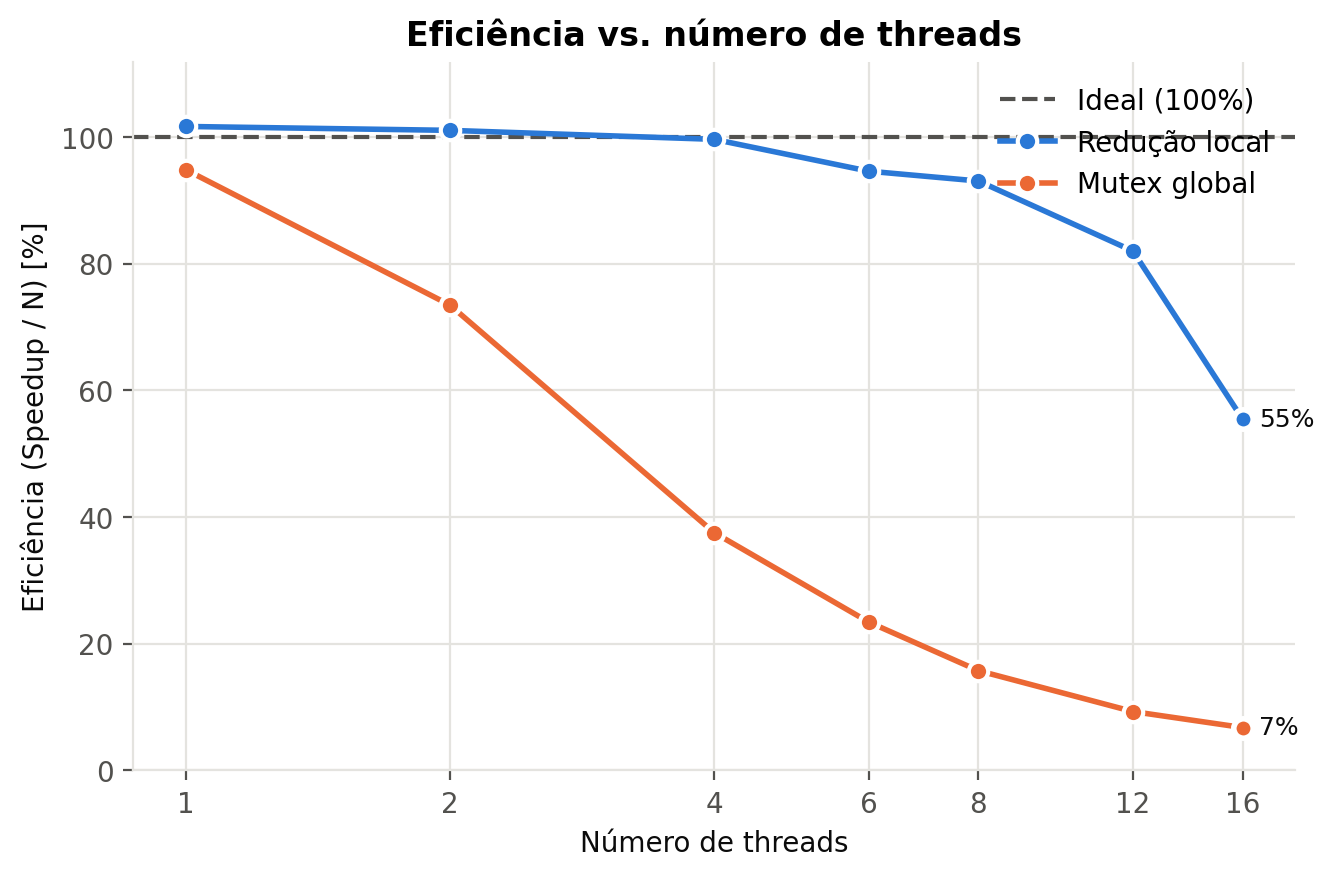
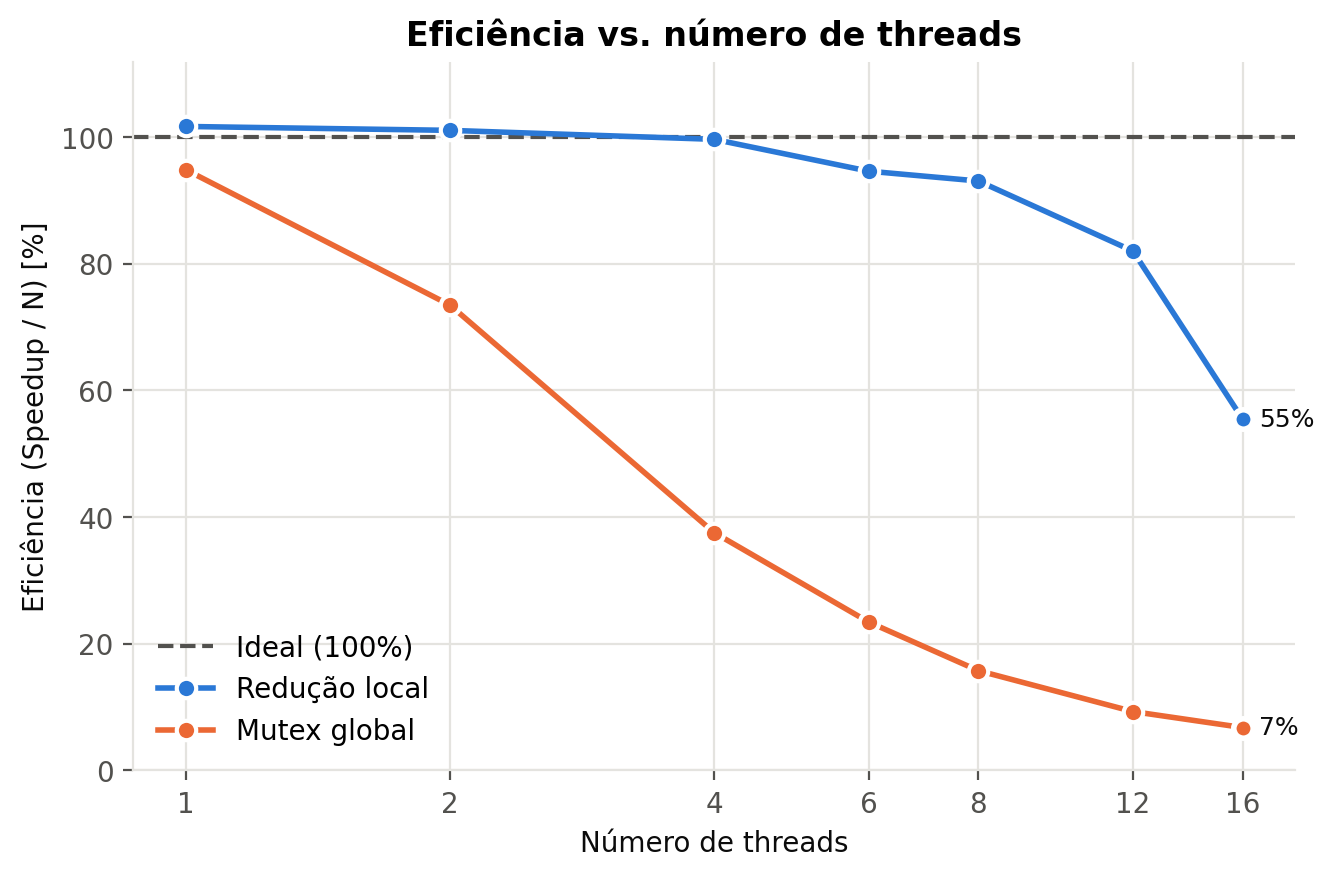
Corrige rótulos do gráfico de granularidade

diff --git a/plot_graphs.py b/plot_graphs.py
@@ -1,5 +1,6 @@
 import csv
 import os
+import sys
 import statistics as st
 from collections import defaultdict
  
@@ -8,8 +9,10 @@ matplotlib.use("Agg")
 import matplotlib.pyplot as plt
  
 RAIZ = os.path.dirname(os.path.abspath(__file__))
-DIR_RES = os.path.join(RAIZ, "resultados")
-DIR_GRAF = os.path.join(RAIZ, "graficos")
+# Uso: python3 plot_graphs.py [pasta_resultados] [pasta_graficos]
+#   ex: python3 plot_graphs.py resultados_10M graficos_10M
+DIR_RES = os.path.join(RAIZ, sys.argv[1] if len(sys.argv) > 1 else "resultados")
+DIR_GRAF = os.path.join(RAIZ, sys.argv[2] if len(sys.argv) > 2 else "graficos")
  
 # Paleta categórica (ordem fixa, validada para daltonismo) + tons neutros
 COR = {"reducao": "#2a78d6", "mutex": "#eb6834", "seq": "#1baf7a"}
@@ -76,6 +79,10 @@ def rotulo_final(ax, x, y, texto, cor):
                 va="center", fontsize=9, color=TEXTO)
     ax.plot([x], [y], "o", color=cor, markeredgecolor="white", markeredgewidth=2)
 
+def rotulo_bloco(b):
+    """1024 -> '1 KB', 2097152 -> '2 MB'"""
+    return f"{b // 1024} KB" if b < 1024 * 1024 else f"{b // (1024 * 1024)} MB"
+
 # Strong scaling: gráficos 1, 2, 3 e tabelas 1 e 4
 def strong(tabelas):
     dados = le_csv("strong.csv")
@@ -129,7 +136,7 @@ def strong(tabelas):
     ax.set_ylabel("Eficiência (Speedup / N) [%]")
     ax.set_title("Eficiência vs. número de threads")
     ax.set_ylim(0, max(110, max(100 * r[4] for v in res for r in res[v]) * 1.1))
-    ax.legend(loc="upper right")
+    ax.legend(loc="lower left")
     salva(fig, "2_eficiencia.png")
  
     # Gráfico 3: Mutex global vs Redução local (tempo)
@@ -194,7 +201,7 @@ def weak(tabelas):
         for (n, m, d), x in zip(pts, xs):
             linhas_tab.append((n, x, NOME[v], m, d, t1 / m))
             if v == "reducao":
-                ax.annotate(f"{n}T", (x, m), xytext=(0, 12), textcoords="offset points",
+                ax.annotate(f"{n}T", (x, m), xytext=(0, -16), textcoords="offset points",
                             ha="center", fontsize=8.5, color=TEXTO_2)
     ax.set_xscale("log", base=2)
     ax.set_xticks([req[n] for n in threads], [f"{req[n] / 1e6:.1f}M" for n in threads])
@@ -235,18 +242,18 @@ def granularidade(tabelas):
                label=f"Estático, 1 bloco/thread ({est_m:.3f} s)")
     ax.plot([melhor[0] / 1024], [melhor[1]], "o", markersize=13, markerfacecolor="none",
             markeredgecolor=TEXTO, markeredgewidth=1.5)
-    ax.annotate(f"Ótimo: {melhor[0] // 1024} KB\n{melhor[1]:.3f} s",
+    ax.annotate(f"Melhor bloco: {rotulo_bloco(melhor[0])}\n{melhor[1]:.3f} s",
                 (melhor[0] / 1024, melhor[1]), xytext=(0, -30), textcoords="offset points",
                 ha="center", va="top", fontsize=9, color=TEXTO)
     ax.set_xscale("log", base=2)
-    ax.set_xticks(xs, [f"{int(x)}" if x < 1024 else "1024" for x in xs])
+    ax.set_xticks(xs, [rotulo_bloco(b) for b, _, _ in pts], rotation=45)
     ax.minorticks_off()
-    ax.set_xlabel("Tamanho do bloco [KB]")
+    ax.set_xlabel("Tamanho do bloco")
     ax.set_ylabel("Tempo de execução [s]")
     ax.set_title(f"Granularidade: tempo vs. tamanho do bloco ({th} threads)")
     lo = min(min(m for _, m, _ in pts), est_m)
     ax.set_ylim(bottom=lo * 0.8 - 0.02 * lo)
-    ax.legend(loc="upper right")
+    ax.legend(loc="best")
     salva(fig, "4_granularidade.png")
  
     t3 = [f"### Tabela 3 - Granularidade ({th} threads, redução local)\n",
@@ -254,8 +261,8 @@ def granularidade(tabelas):
           "|---:|---:|---:|---:|",
           f"| estático (1/thread) | {est_m:.4f} | {est_d:.4f} | - |"]
     for b, m, d in pts:
-        marca = " **(ótimo)**" if b == melhor[0] else ""
-        t3.append(f"| {b // 1024} KB{marca} | {m:.4f} | {d:.4f} | {100 * (m - est_m) / est_m:+.1f}% |")
+        marca = " **(melhor dinâmico)**" if b == melhor[0] else ""
+        t3.append(f"| {rotulo_bloco(b)}{marca} | {m:.4f} | {d:.4f} | {100 * (m - est_m) / est_m:+.1f}% |")
     tabelas.append("\n".join(t3))
 
 def main():

diff --git a/resultados_100M/tabelas.md b/resultados_100M/tabelas.md
@@ -37,7 +37,7 @@ Ideal: tempo constante. Eficiência fraca = T(1 thread) / T(N threads).
 | estático (1/thread) | 31.7830 | 1.6867 | - |
 | 1 KB | 43.4167 | 1.4398 | +36.6% |
 | 2 KB | 44.0151 | 1.4172 | +38.5% |
-| 4 KB **(ótimo)** | 40.9928 | 0.3914 | +29.0% |
+| 4 KB **(melhor dinâmico)** | 40.9928 | 0.3914 | +29.0% |
 | 8 KB | 41.8856 | 2.1517 | +31.8% |
 | 16 KB | 43.9667 | 0.6986 | +38.3% |
 | 32 KB | 45.9147 | 2.0351 | +44.5% |
@@ -45,11 +45,11 @@ Ideal: tempo constante. Eficiência fraca = T(1 thread) / T(N threads).
 | 128 KB | 45.8845 | 0.6511 | +44.4% |
 | 256 KB | 45.5987 | 1.4010 | +43.5% |
 | 512 KB | 44.9409 | 0.6902 | +41.4% |
-| 1024 KB | 45.1402 | 0.3849 | +42.0% |
-| 2048 KB | 57.1075 | 1.0300 | +79.7% |
-| 4096 KB | 56.6791 | 1.0462 | +78.3% |
-| 8192 KB | 52.8075 | 1.4078 | +66.2% |
-| 16384 KB | 52.9539 | 4.1359 | +66.6% |
+| 1 MB | 45.1402 | 0.3849 | +42.0% |
+| 2 MB | 57.1075 | 1.0300 | +79.7% |
+| 4 MB | 56.6791 | 1.0462 | +78.3% |
+| 8 MB | 52.8075 | 1.4078 | +66.2% |
+| 16 MB | 52.9539 | 4.1359 | +66.6% |
 
 ### Tabela 4 - Mutex global vs. redução local
 

diff --git a/resultados_10M/tabelas.md b/resultados_10M/tabelas.md
@@ -50,12 +50,12 @@ Ideal: tempo constante. Eficiência fraca = T(1 thread) / T(N threads).
 | 64 KB | 0.6964 | 0.0059 | -10.4% |
 | 128 KB | 0.6938 | 0.0062 | -10.7% |
 | 256 KB | 0.6942 | 0.0027 | -10.7% |
-| 512 KB **(ótimo)** | 0.6884 | 0.0013 | -11.4% |
-| 1024 KB | 0.6900 | 0.0018 | -11.2% |
-| 2048 KB | 0.6897 | 0.0019 | -11.3% |
-| 4096 KB | 0.7332 | 0.0275 | -5.7% |
-| 8192 KB | 0.7814 | 0.0159 | +0.6% |
-| 16384 KB | 0.7957 | 0.0186 | +2.4% |
+| 512 KB **(melhor dinâmico)** | 0.6884 | 0.0013 | -11.4% |
+| 1 MB | 0.6900 | 0.0018 | -11.2% |
+| 2 MB | 0.6897 | 0.0019 | -11.3% |
+| 4 MB | 0.7332 | 0.0275 | -5.7% |
+| 8 MB | 0.7814 | 0.0159 | +0.6% |
+| 16 MB | 0.7957 | 0.0186 | +2.4% |
 
 ### Tabela 4 - Mutex global vs. redução local
 
